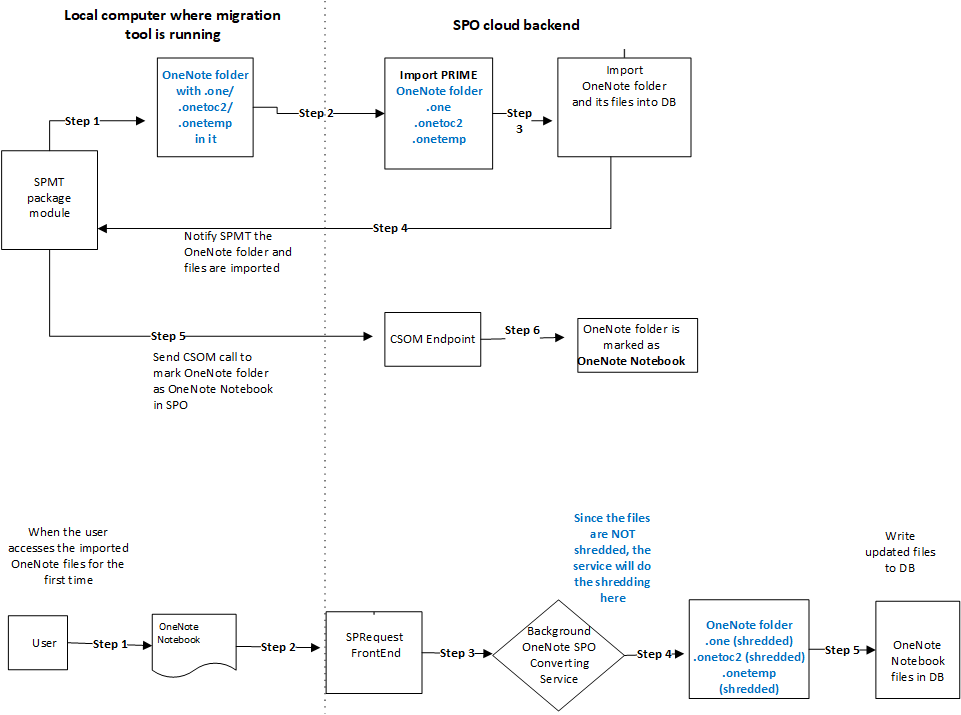
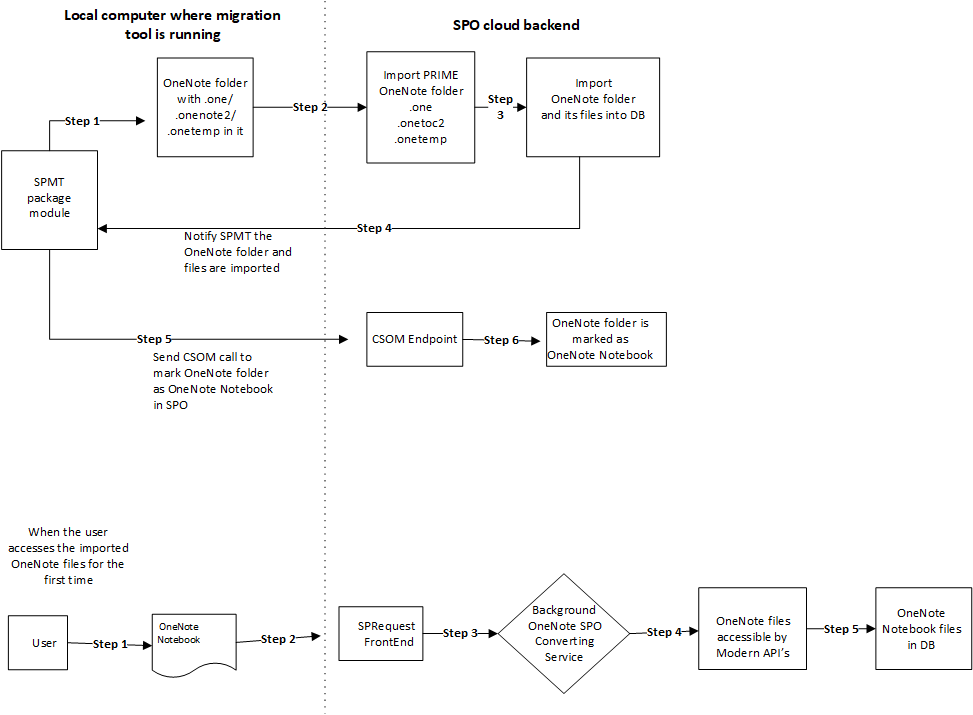
edits
updates

diff --git a/migration/onenote-migration-service.md b/migration/onenote-migration-service.md
@@ -15,8 +15,11 @@ description: "Migrating OneNote folders using the SPO OneNote converting service
 ---
 # Migrating OneNote folders
 
-When bringing **OneNote** notebooks from outside of SharePoint Online (SPO) into the service, you are required to convert ("shred") the file for it to be supported properly in the service. The OneNote team now has a OneNote converting service in SPO. It is now possible to mark **OneNote** notebooks that are being migrated, to be converted.   
- 
+When bringing **OneNote** notebooks into SharePoint Online (SPO) from outside the service, you are required to convert the file. OneNote files need to be located within a correctly tagged NoteBook folder before the OneNote content is accessible via the modern APIs.  
+
+There is now a OneNote converting service in SPO that let you mark the **OneNote** notebooks that are being migrated to be converted.
+  
+
 ### Example 
 
 The following example shows SPMT using the SPO OneNote converting service, which is running in SPO background.  
